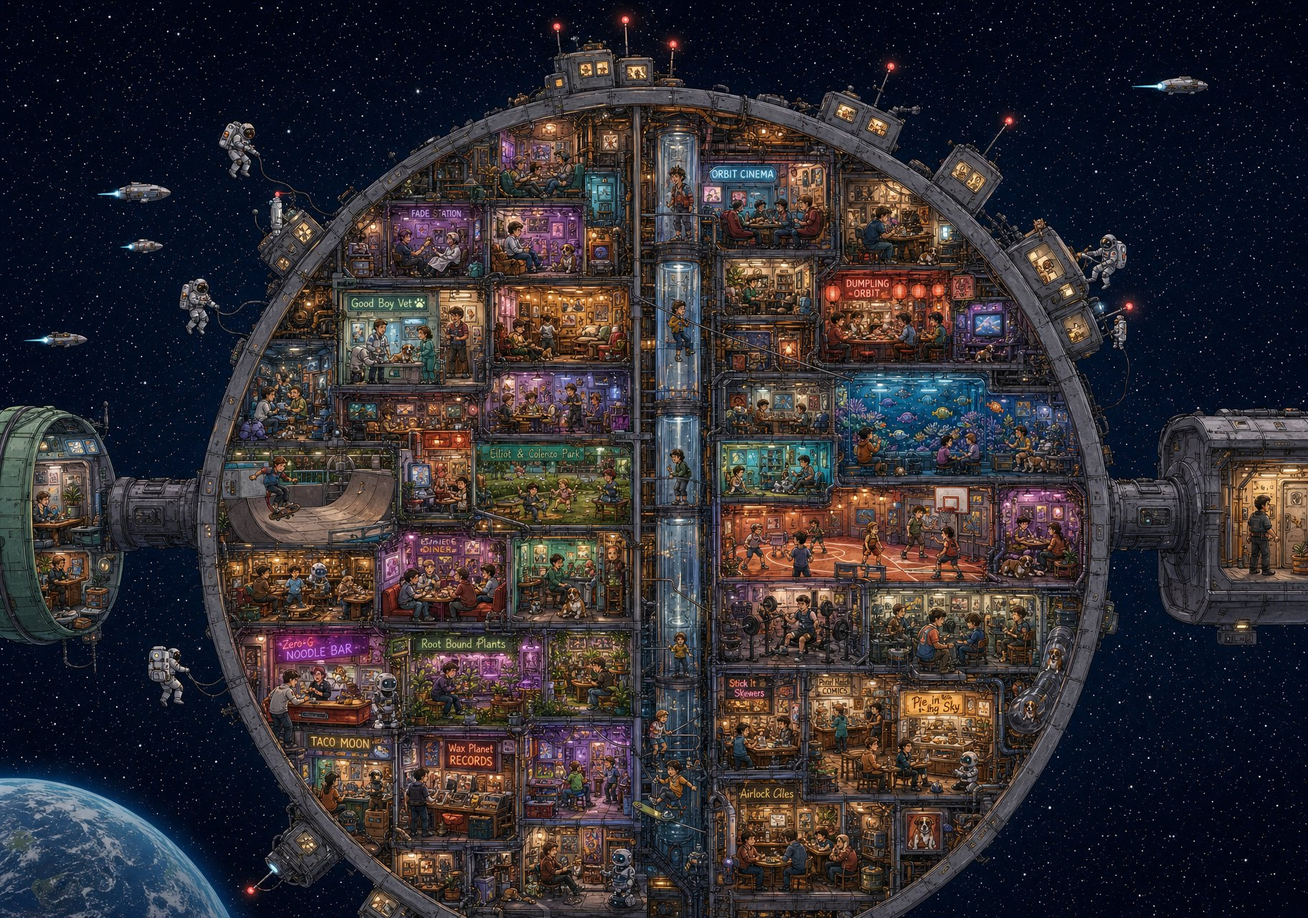
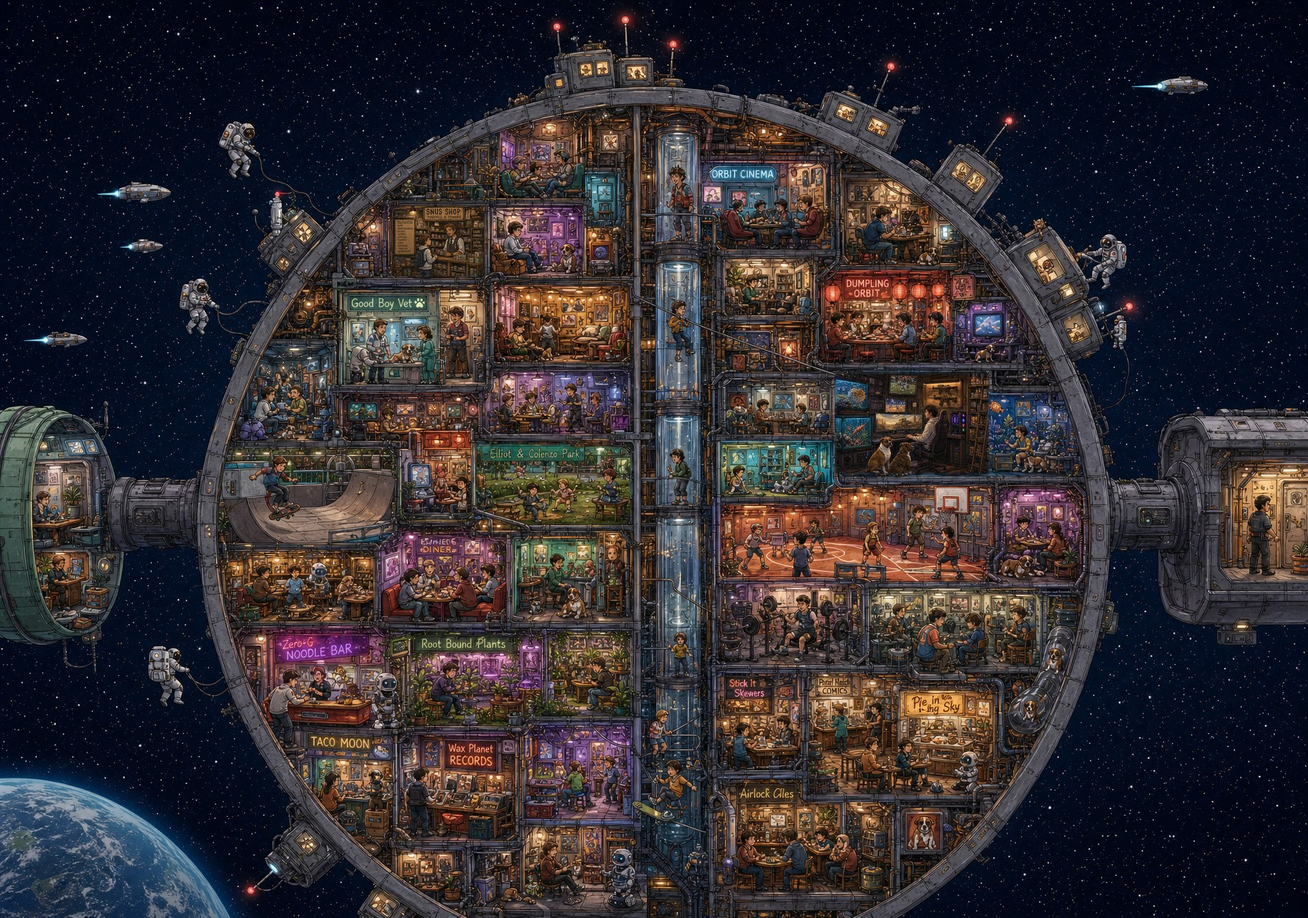
Place painted pods back into the station
master.py pastes each pin's chosen version into the base painting at
its room. The Pod Planner's map now shows the station with the pods in
place, and new pod jobs crop from that master so their neighbours are
current.

Claude-Session: https://claude.ai/code/session_01GienRPveNGrwCfEGPeaPsR

Changed region(s): [[0.625, 0.4062, 0.7812, 0.5312], [0.2812, 0.2188, 0.375, 0.3125]]

diff --git a/wallpaper/pods/pod-planner.html b/wallpaper/pods/pod-planner.html
@@ -157,7 +157,7 @@ button:focus-visible, input:focus-visible, textarea:focus-visible, .pin:focus-vi
   <header style="display:grid;gap:10px">
     <p class="eyebrow">Station wallpaper · your touches</p>
     <h1>Pod Planner<span class="jp">部屋</span></h1>
-    <p class="lede">Tap the station to drop a pin and write what you want there, pick who's in it, and hit Generate: Claude paints that pod. Keep editing and generating until it's right. Everything saves, so come back any time.</p>
+    <p class="lede">Tap the station to drop a pin and write what you want there, pick who's in it, and hit Generate: Claude paints that pod. Keep editing and generating until it's right; the version marked "next version builds on this" is the one placed in the station. Everything saves, so come back any time.</p>
   </header>
   <p id="notice" class="notice" hidden></p>
   <div class="toolbar">

diff --git a/wallpaper/tools/master.py b/wallpaper/tools/master.py
@@ -1,0 +1,69 @@
+"""Puts every painted pod back into the station: the master painting.
+
+For each pin, the chosen version (the one marked "next version builds on this",
+else the latest) is pasted into the base painting at the pin's room, with a
+slightly feathered edge. The result is the map the Pod Planner shows and the
+source the final cover and inner wallpapers are cut from.
+
+    python3 wallpaper/tools/master.py wallpaper/pods/work/_db/pins
+    # writes wallpaper/pods/work/master.png and wallpaper/pods/station.jpg
+"""
+import json
+import sys
+from pathlib import Path
+
+from PIL import Image, ImageDraw, ImageFilter
+
+ROOT = Path(__file__).resolve().parent.parent
+BASE = ROOT / "raw" / "r8_inner.png"
+WORK = ROOT / "pods" / "work"
+MASTER = WORK / "master.png"
+STATION = ROOT / "pods" / "station.jpg"
+
+
+def chosen_pod(pid, pin):
+    paints = [r for r in pin.get("renders", []) if r.get("kind") == "paint"]
+    if not paints:
+        return None
+    pick = len(paints)
+    if pin.get("base"):
+        for i, r in enumerate(paints, 1):
+            if r["asset"] == pin["base"]:
+                pick = i
+    meta = WORK / pid / "meta.json"
+    pod = WORK / pid / f"pod_{pick}.png"
+    if not pod.exists() or not meta.exists():
+        print(f"  {pid}: version {pick} isn't on this machine, skipped")
+        return None
+    return pod, json.loads(meta.read_text())
+
+
+def build(pins_dir):
+    master = Image.open(BASE).convert("RGB")
+    placed = 0
+    for f in sorted(Path(pins_dir).glob("*.json")):
+        doc = json.loads(f.read_text())
+        pin = doc.get("data", doc)
+        pid = f.stem
+        if not pin.get("room"):
+            continue
+        found = chosen_pod(pid, pin)
+        if not found:
+            continue
+        pod, meta = found
+        c = meta["crop"]
+        x0, y0, x1, y1 = pin["room"]
+        tile = Image.open(pod).convert("RGB").resize((c[2] - c[0], c[3] - c[1]), Image.LANCZOS)
+        m = Image.new("L", tile.size, 0)
+        ImageDraw.Draw(m).rectangle([x0 - c[0] + 1, y0 - c[1] + 1, x1 - c[0] - 1, y1 - c[1] - 1], fill=255)
+        m = m.filter(ImageFilter.GaussianBlur(1.2))
+        master.paste(tile, (c[0], c[1]), m)
+        placed += 1
+        print(f"  pin {pin.get('n')}: placed")
+    master.save(MASTER)
+    master.save(STATION, quality=88)
+    print(f"{placed} pods in the station -> {STATION.relative_to(ROOT.parent)}")
+
+
+if __name__ == "__main__":
+    build(sys.argv[1] if len(sys.argv) > 1 else WORK / "_db" / "pins")

diff --git a/wallpaper/tools/pod.py b/wallpaper/tools/pod.py
@@ -19,6 +19,12 @@ from PIL import Image, ImageDraw, ImageFilter
 
 ROOT = Path(__file__).resolve().parent.parent
 BASE = ROOT / "raw" / "r8_inner.png"     # the locked base painting the pins sit on
+MASTER = ROOT / "pods" / "work" / "master.png"   # the base with every placed pod (tools/master.py)
+
+
+def station():
+    """The current station: the master if pods have been placed, else the base."""
+    return Image.open(MASTER if MASTER.exists() else BASE).convert("RGB")
 WORK = ROOT / "pods" / "work"
 SIZE = 1024
 CONTEXT = 2.6                             # crop side = this × the room's longer side
@@ -49,7 +55,7 @@ def prep(pin_path, base_render=None):
     pid, room = pin["id"], pin["room"]
     out = WORK / pid
     out.mkdir(parents=True, exist_ok=True)
-    base = Image.open(BASE).convert("RGB")
+    base = station()
     crop = crop_for(room, *base.size)
     original = base.crop(crop).resize((SIZE, SIZE), Image.LANCZOS)
     original.save(out / "original.png")
@@ -127,7 +133,7 @@ def finish(work_dir):
     out.save(work / f"pod_{meta['render']}.png")
     out.save(work / f"pod_{meta['render']}.jpg", quality=88)
     # The pod at its true size inside the whole painting, for checking the fit.
-    base = Image.open(BASE).convert("RGB")
+    base = station()
     c = meta["crop"]
     base.paste(out.resize((c[2] - c[0], c[3] - c[1]), Image.LANCZOS), (c[0], c[1]))
     base.save(work / f"context_{meta['render']}.jpg", quality=90)

diff --git a/wallpaper/pods/RUNBOOK.md b/wallpaper/pods/RUNBOOK.md
@@ -36,7 +36,12 @@ request too. Handle it like this.
    `before.jpg` (it has the room outlined) too as `kind: "current"` first.
    Append `{asset, kind: "paint", touch, who}` to `renders`, clear `base`
    (`{"__delete__": true}`), set `status: "done"`.
-7. **On failure** set `status: "error"` and a plain `statusNote` the page shows
+7. **Place it in the station.** Export every pin (`ArtifactData list`
+   collection `pins`, `out_dir: wallpaper/pods/work/_db`), run
+   `python3 wallpaper/tools/master.py`, and republish the page with
+   `files: {"station.jpg": "<abs path>/wallpaper/pods/station.jpg"}`. The map
+   then shows the pod, and later pods are painted against it.
+8. **On failure** set `status: "error"` and a plain `statusNote` the page shows
    (for example: "The image service is out of credits; add credits and generate
    again.").
 
